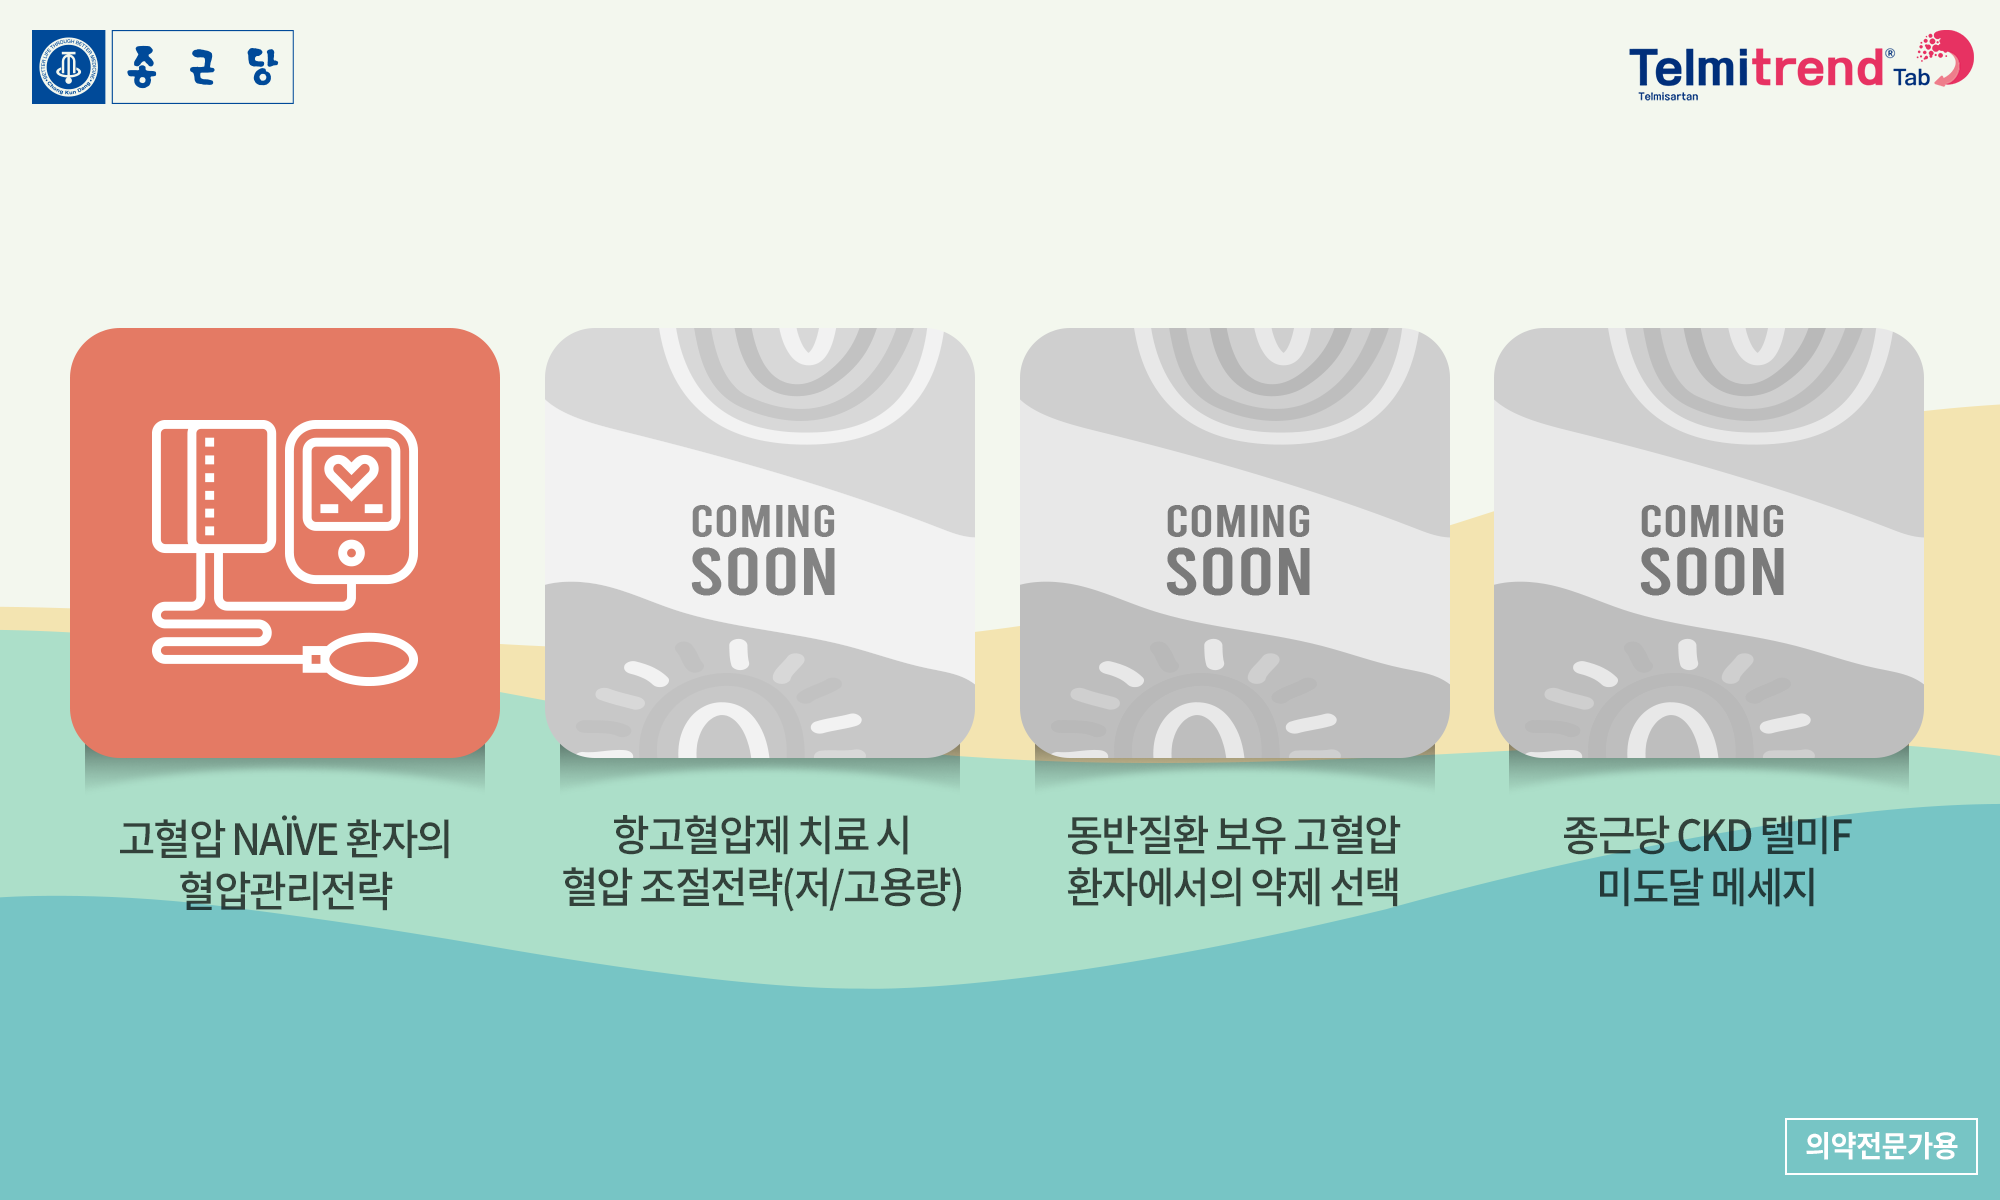
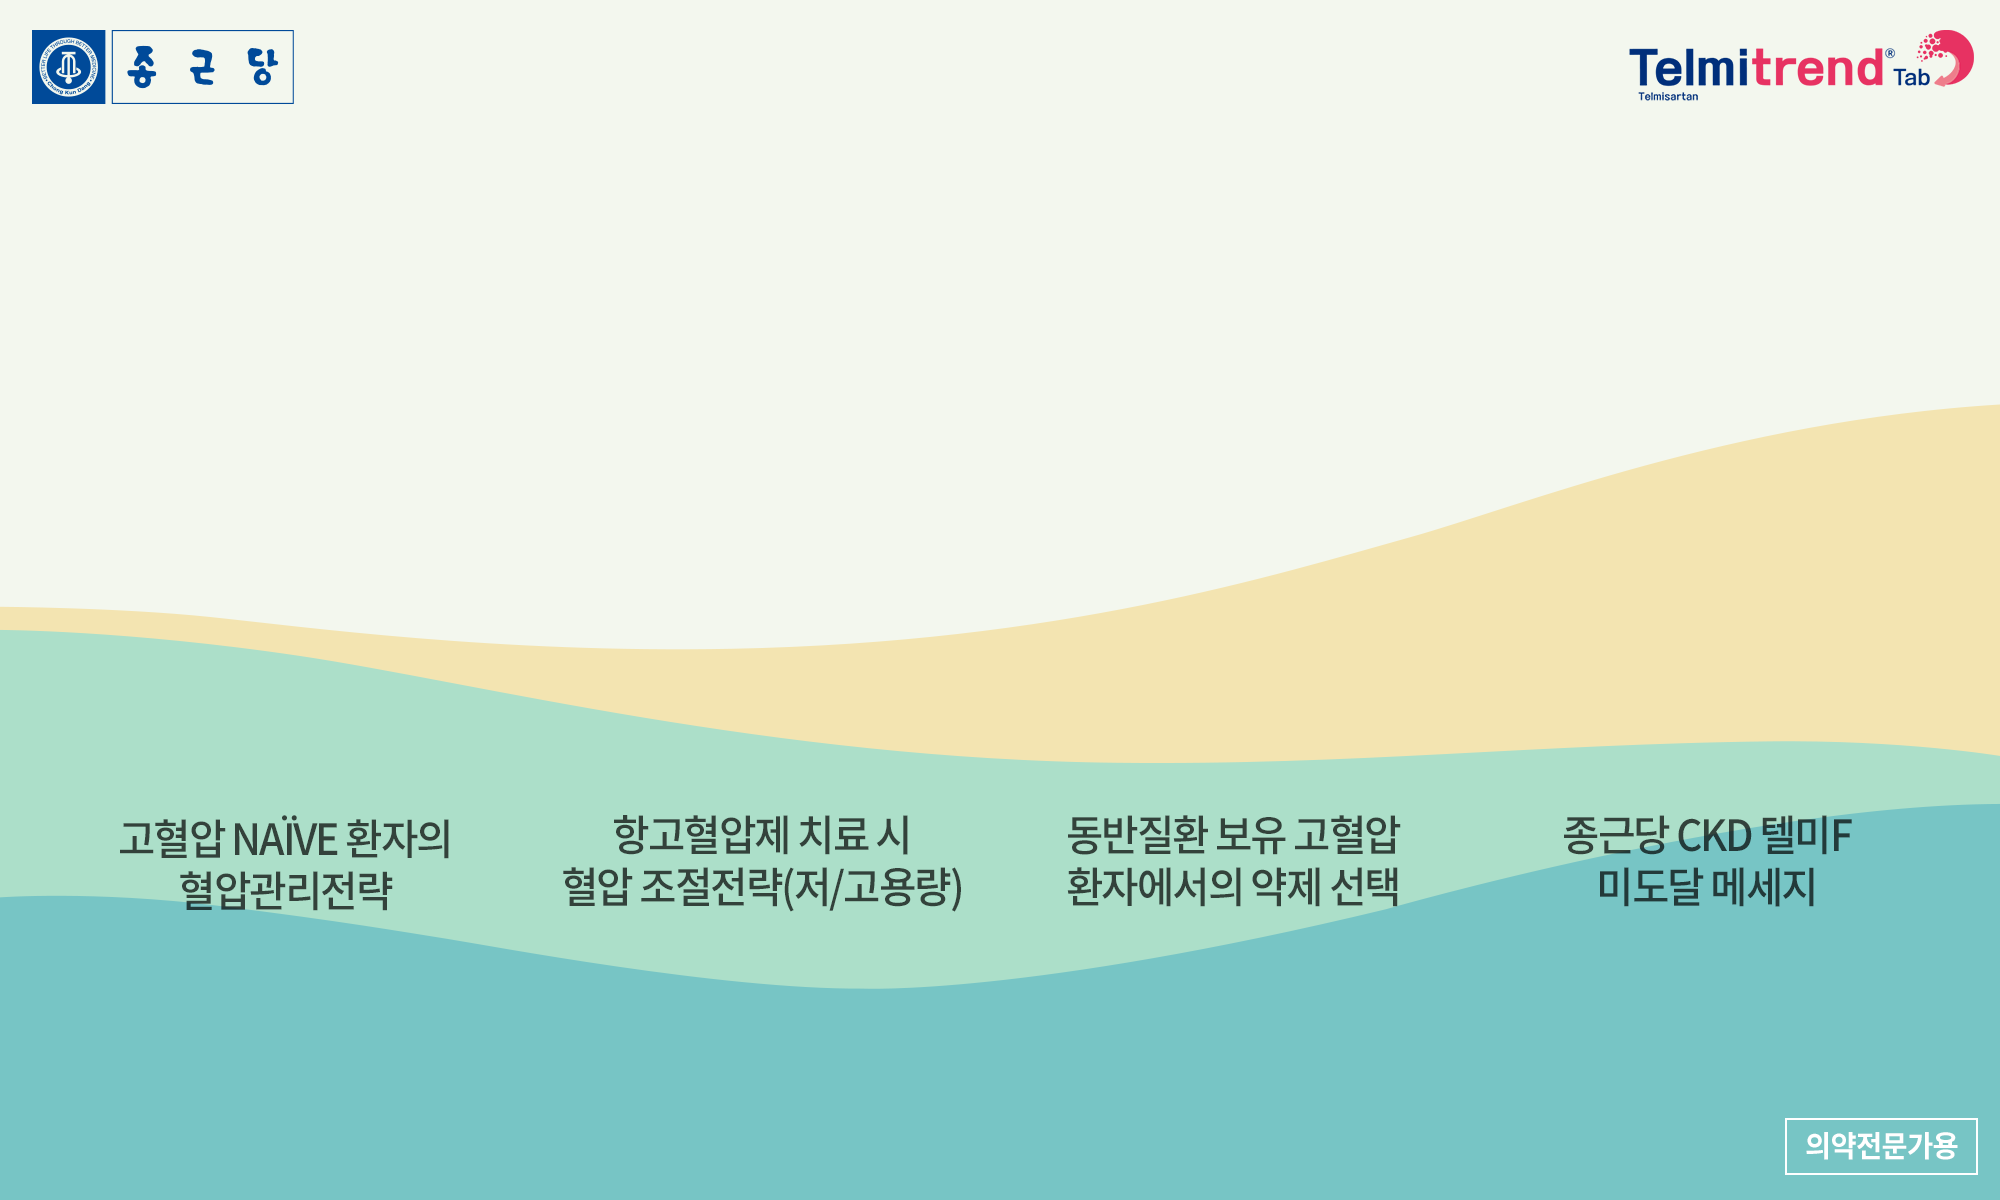
4.6

Changed region(s): [[0.031, 0.2467, 0.961, 0.6475]]

diff --git a/src/components/Choice.vue b/src/components/Choice.vue
@@ -4,8 +4,10 @@
       <img src="/img/choice.png" alt="">
       <div class="list-box">
         <ul>
-          <li v-for="(q, month) in surveys" :key="month">
-            <RouterLink v-if="q" :to="`/survey/${month}`" :class="{complete: checkComplete(month)}"></RouterLink>
+          <li v-for="(q, month) in surveys" :key="month" :class="{reverse: reverseImg === month}">
+            <div class="front img"></div>
+            <div class="back img"></div>
+            <a v-if="q" :class="{complete: checkComplete(month)}" @click="choice(month)"></a>
             <a v-else @click="notYet(month)"></a>
           </li>
         </ul>
@@ -22,7 +24,8 @@ export default {
 
   data() {
     return {
-      surveys
+      reverseImg: null,
+      surveys,
     }
   },
   methods: {
@@ -32,6 +35,10 @@ export default {
     checkComplete(month) {
       return this.$store.state.completeSurvey[month];
     },
+    choice(v) {
+      this.reverseImg = v;
+      setTimeout(() => {this.$router.push(`/survey/${v}`)}, 2000);
+    }
   }
 
 }
@@ -43,8 +50,12 @@ export default {
   [choice] {  .abs; .lt;
     .list-box { .wf; .abs; .lt(0,328); .p(0,32,0,25); .-box;
       ul { .flex; flex-direction: row; justify-content: space-evenly;
-        li { .wh(430,430); .tc;
-          a { .f; .block; }
+        li { .wh(430,468); .tc; transition: 1s; .rel; -webkit-transform-style: preserve-3d; -moz-transform-style: preserve-3d; -ms-transform-style: preserve-3d; -o-transform-style: preserve-3d;
+          .img { .ib; .f; .abs; .lt; backface-visibility: hidden; }
+          .front { .contain('/img/choice-4.png'); transform: rotateY(180deg); }
+          .back { .contain('/img/coming.png'); }
+          &.reverse {  transform: rotateY(180deg); }
+          a { .rel; .f; .block; }
         }
       }
     }
